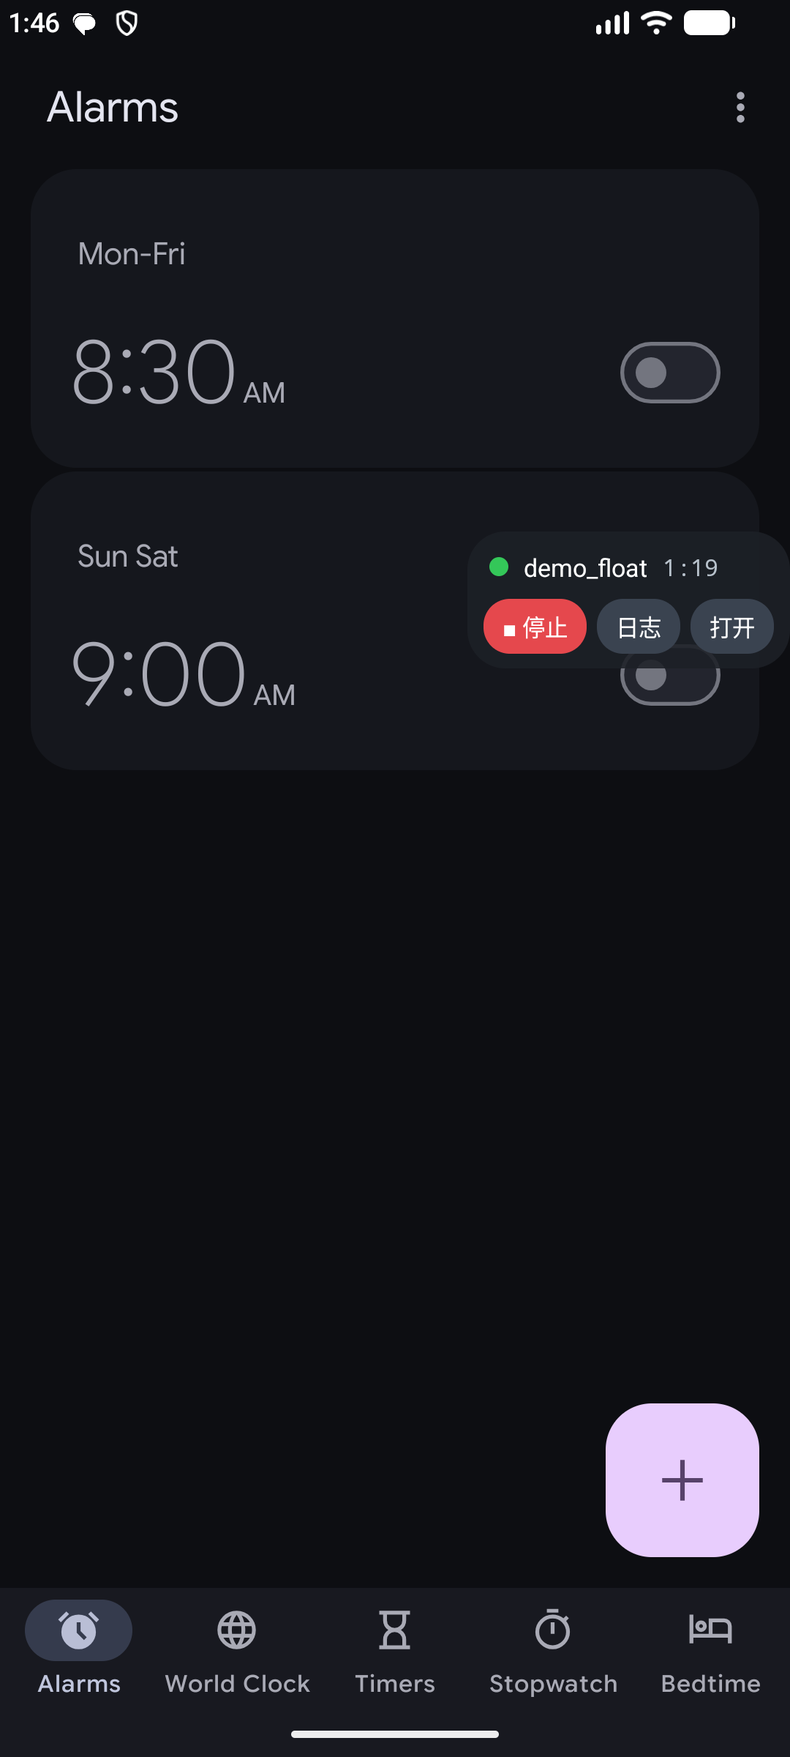
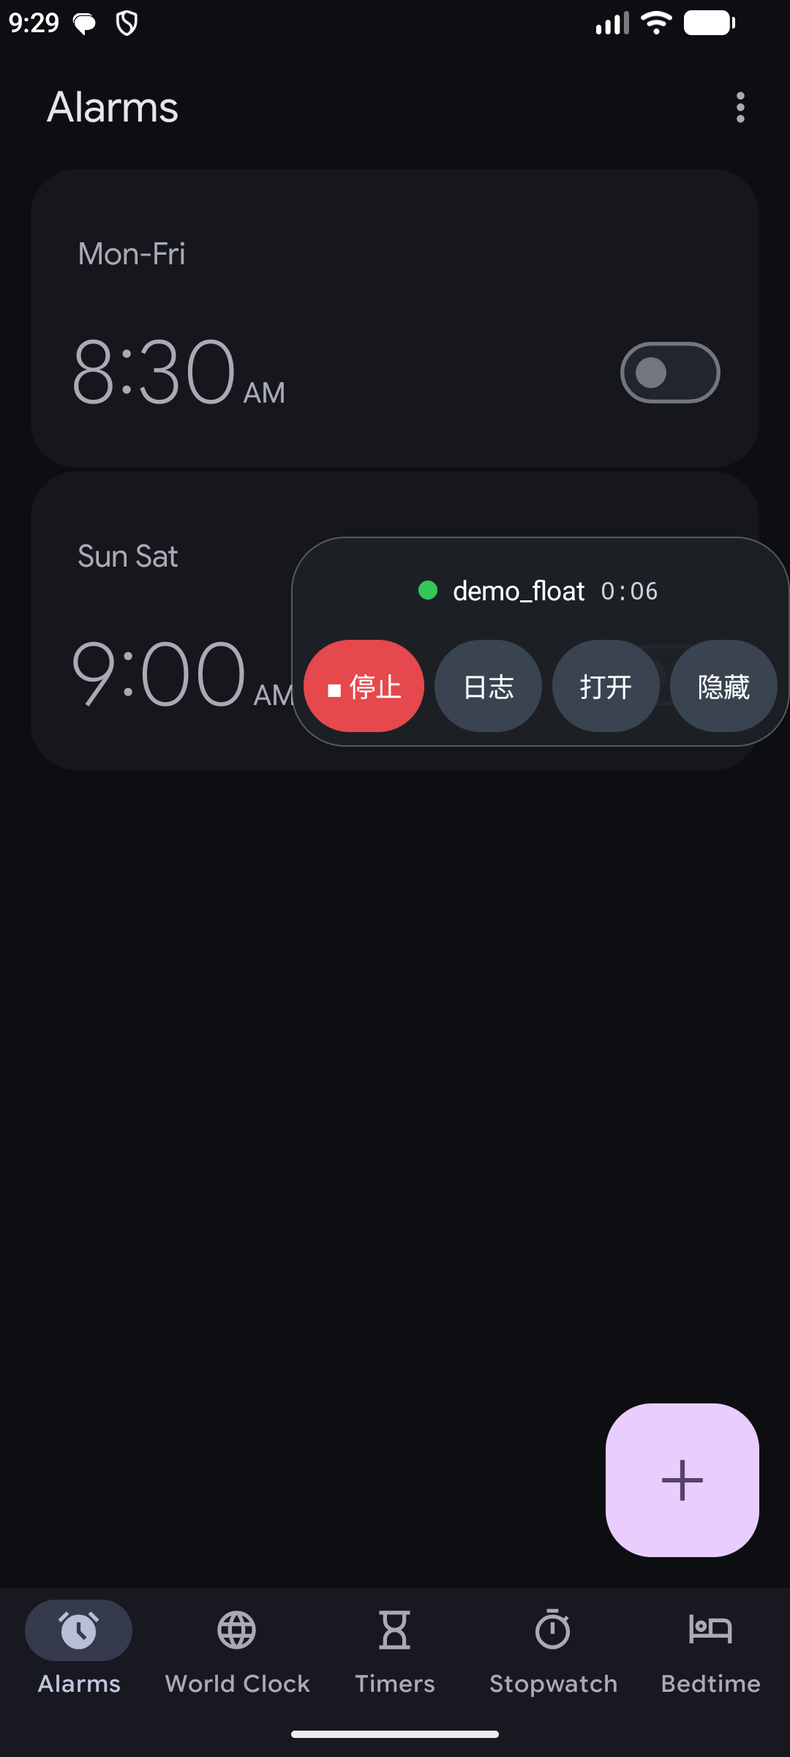
docs: floating window optimization (功能对照, 使用手册, ARCHITECTURE, API, README + refreshed phone-floating.png, openapi/mock overlay fields, CHANGELOG)

Changed region(s): [[0.3667, 0.3125, 1.0, 0.4375], [0.0, 0.0, 0.0917, 0.0312], [0.5194, 0.3125, 0.55, 0.3438]]

diff --git a/scripts/mock_device.py b/scripts/mock_device.py
@@ -232,10 +232,14 @@ class Handler(BaseHTTPRequestHandler):
                     "mode": "off" if not STATE["settings"]["float_on_run"] else ("always" if STATE["settings"]["float_always"] else "run"),
                     "permitted": True,
                     "visible": False,
+                    "state": None,
                     "expanded": False,
                     "app_foreground": True,
                     "side": "right",
                     "reason": "foreground",
+                    "error": False,
+                    "menus": 0,
+                    "insets": {"left": 0, "top": 0, "right": 0, "bottom": 0},
                 },
             })
             return

diff --git a/docs/ARCHITECTURE.md b/docs/ARCHITECTURE.md
@@ -284,14 +284,16 @@ MCP 也提供了对应工具（`take_snapshot`、`vision_test`、`crop_template`
 
 悬浮窗是一个 `TYPE_APPLICATION_OVERLAY`（API 26 以下 `TYPE_PHONE`）窗口，标题 `XScriptFloat`，在主进程里由 `WindowManager` 直接添加，不另起 Service：主进程已经被 `DeviceHttpService` 的前台服务通知保活，悬浮窗不需要自己的通知。`FloatLogic` 是不依赖 Android 类型的纯 Kotlin（JVM 测试覆盖），`FloatControl` 负责窗口和事件。
 
-- **何时可见**：`FloatLogic.decide(permitted, enabled, always, running, appForeground, scriptForce)`。无权限 → 不显示（静默）；脚本 `ui.float_show()` → 显示，`ui.float_hide()` → 隐藏（只对本次运行有效，脚本结束清除）；设置关闭 → 不显示；有 Activity 在前台 → 不显示；否则脚本在运行或设置为“后台一直显示”时显示。
+- **何时可见**：`FloatLogic.decide(permitted, enabled, always, running, appForeground, scriptForce, userHidden, notice)`。无权限 → 不显示（静默）；脚本 `ui.float_show()` → 显示，`ui.float_hide()` → 隐藏（只对本次运行有效，脚本结束清除）；面板里点了 **隐藏** → 不显示（下次运行或有 Activity 回到前台时清除）；设置关闭 → 不显示；有 Activity 在前台 → 不显示；否则脚本在运行、设置为“后台一直显示”或刚报错（`notice`，约 8 秒）时显示。退出码非 0 / 进程死亡才算出错（`FloatLogic.isError`；退出码 0 和用户停止不算），`scriptEnded(ctx, exit)` 从 `script_finished` 和 `ScriptSupervisor.onDeath` 两处带上退出信息。
 - **前后台**：`XscriptApp` 里注册 `ActivityLifecycleCallbacks`，数已 `started` 的 Activity（主进程内）。脚本进程里的 `ui.Window` 等是 View 不是 Activity，不算前台。
-- **触发**：`script_started` / `script_finished`（`MainControl`）、`ScriptSupervisor.onDeath`、设置变化、前后台切换都会调 `sync`；窗口显示期间每秒一次 tick，刷新计时，并发现脚本进程已消失、屏幕旋转、权限被撤销。“空闲”需要连续两次确认才收起，避免状态文件读到一半时闪一下。
+- **触发**：`script_started` / `script_finished`（`MainControl`）、`ScriptSupervisor.onDeath`、设置变化、前后台切换都会调 `sync`；窗口显示期间每秒一次 tick（只读状态文件、只在文本变化时 `setText`；进程列表 IPC 最多每 4 秒一次；屏幕熄灭时降到每 5 秒），刷新计时，并发现脚本进程已消失、屏幕旋转、字体 / 深色模式变化（重建窗口，保留当前形态）、权限被撤销；窗口隐藏时没有任何轮询。“空闲”需要连续两次确认才收起，避免状态文件读到一半时闪一下。
 - **运行状态和计时**：`RunState`（文件，原子写入）里有工程名，`running-since` 记录开始时间，主进程重启后计时不归零。
-- **位置**：`FloatLogic.Dock(right, yFrac)`——靠左或靠右 + 竖直方向的比例，存在 `Settings`；拖动松手后吸附到近的一侧，换屏幕尺寸或旋转后按比例重新放置，窗口始终完整在屏幕内。展开面板、计时位数变化导致宽度变化时，右侧停靠的窗口自动贴着右边。
-- **展开面板**：点一下切换 `FloatLogic.State.expanded`；运行 / 停止走 `ScriptService.run/stop`（用户停止，不会重跑），日志、打开用 `FLAG_ACTIVITY_NEW_TASK` 拉起 Activity（有可见悬浮窗的应用允许从后台启动）。
+- **位置**：`FloatLogic.Dock(right, yFrac)`——靠左或靠右 + 竖直方向的比例，横屏和竖屏各存一份在 `Settings`（`floatDock(landscape)`）；`FloatLogic.Insets`（状态栏、刘海、导航 / 手势条，API 30+ 用 `maximumWindowMetrics.windowInsets`，更低版本用资源尺寸）贯穿 clamp / place / dockFor / resolve，窗口始终在安全区内。拖动松手后吸附到近的一侧（`DecelerateInterpolator` 200 ms），换屏幕尺寸或旋转后按比例重新放置。窗口大小由 `FloatControl.fit` 自己量好后设为精确值（`WRAP_CONTENT` 的覆盖窗口内容变宽时不会可靠地跟着变宽，面板按钮会被裁掉），右侧停靠的窗口因此始终贴着右边。
+- **球 / 药丸 / 面板**：`FloatLogic.Mode`（BALL、PILL、PANEL）+ `Event.TAP / ACTION / IDLE / WAKE`；新窗口先是药丸（看得清名字），`PILL_IDLE_MS`（5 秒）/ `PANEL_IDLE_MS`（10 秒）没触碰就缩成 48dp 球；`FloatLogic.alpha(mode, dim, touching)` 把脚本的 `dim` 当基础透明度，球再乘 0.6，触碰时回到 `dim`。药丸 ≥ 48dp 高，面板按钮 ≥ 48dp × 56dp，颜色随深色模式换并带描边；读屏文字在 `render` 里生成（状态 + 名称 + 时长），点击走 `performClick`，TalkBack 双击可用。
+- **脚本自己的按钮**：Python `xscript.android.ui.float_add_menu` → 控制命令 `float_menu_add`（`FloatControl.addMenu`，主进程保存 id + 图标路径，随脚本结束清除）→ 点击时 `EventHub.floatMenu(id)` 发 `float` 事件（`xscript.android.event` 的 `FLOAT` 类型，带 `menu` 字段）→ 脚本进程的事件线程分发，回调另开线程执行，所以长回调不会堵事件。
+- **展开面板**：点一下切换面板；运行 / 停止走 `ScriptService.run/stop`（用户停止，不会重跑），日志、打开用 `FLAG_ACTIVITY_NEW_TASK` 拉起 Activity（有可见悬浮窗的应用允许从后台启动）。
 - **重启恢复**：主进程被系统杀掉后 `DeviceHttpService`（`START_STICKY`）重新拉起，`XscriptApp.onCreate` 里 `FloatControl.restore` 延迟 1.5 秒调用 `sync`（避免从桌面冷启动时闪一下），脚本还在运行就恢复悬浮窗。
-- **`/status`**：`overlay` 字段（`enabled / always / mode / permitted / visible / expanded / app_foreground / side / reason`，可见时附 `x / y / width / height`），测试用。
+- **`/status`**：`overlay` 字段（`enabled / always / mode / permitted / visible / state / expanded / app_foreground / side / reason / error / menus / insets`，可见时附 `x / y / width / height / alpha / screen_width / screen_height`），测试用。
 - **AScript 兼容**：`FloatWindow.show(x, y, dim)` 的 x / y / dim 由 `FloatLogic.resolve` 解释（-1 = 右 / 下，0 = 左 / 上，小数 = 比例，正数 = 像素），但始终贴边。
 
 ### 4.10 APK 打包与卡密

diff --git a/docs/使用手册.md b/docs/使用手册.md
@@ -63,21 +63,25 @@ adb -s 127.0.0.1:16384 shell cmd appops set com.xscript.app SYSTEM_ALERT_WINDOW 
 
 ### 悬浮窗（后台运行控制）
 
-脚本在运行、你把 XScript 切到后台（回桌面或打开别的 App）时，屏幕边上会出现一个小悬浮窗：绿点表示运行中，后面是工程名和已运行时间（`1:19`）。
+脚本在运行、你把 XScript 切到后台（回桌面或打开别的 App）时，屏幕边上会出现一个悬浮窗：圆点表示状态（绿 = 运行中、灰 = 空闲、红 = 出错），后面是工程名和已运行时间（`1:19`）。
 
-- **拖动**：按住移动，松手后吸附到左边或右边，位置会记住（重启 App 也在）。
-- **展开**：点一下悬浮窗，展开 **运行 / 停止**、**日志**、**打开**；再点一下收起。**停止** 和 App 里的停止一样（杀脚本进程，不会触发“停止后重新运行”）；空闲时按钮是 **运行**，运行上次的小程序。
+- **小球**：约 5 秒没碰它，悬浮窗缩成一个 48dp 的半透明小球（里面还是已运行时间，红点 `!` 表示刚出错），不挡内容；碰一下恢复不透明。脚本里 `dim` 设的透明度会一直生效，小球在它的基础上再淡一些。
+- **拖动**：按住移动，松手后带缓动吸附到左边或右边，位置会记住（重启 App 也在）；横屏和竖屏各记一个位置，旋转后自动重新摆放。悬浮窗不会盖住状态栏、刘海 / 摄像头挖孔和底部导航条 / 手势条。
+- **展开**：点一下（小球或药丸都行）展开 **运行 / 停止**、**日志**、**打开**、**隐藏**，每个按钮不小于 48dp；再点一下收起，10 秒没操作缩回小球。**停止** 和 App 里的停止一样（杀脚本进程，不会触发“停止后重新运行”）；空闲时按钮是 **运行**，运行上次的小程序。**隐藏** 让悬浮窗消失，直到下次运行脚本或回到 App 再出现。
+- **脚本自己的按钮**：`FloatWindow.add_menu("rec", R.img("rec.png"), on_click)` 往展开面板里加一个圆形图标按钮，点它会在脚本里调用 `on_click()`；`remove_system=True` 隐藏内置的 运行 / 日志 / 打开 / 隐藏；脚本结束按钮一起消失。
+- **出错提示**：脚本非正常结束（报错、进程被杀）时悬浮窗不立刻收起，变成红点 + “工程名 出错”，保留约 8 秒；正常结束或点了停止不会这样。
+- **读屏**：整个悬浮窗有朗读文字（“XScript 悬浮窗，运行中，工程名，已运行 0:12，点按展开”），各按钮有各自的说明；字体变大或切换深色模式后自动重建。
 - **什么时候出现**：首页 **悬浮窗显示** 选 **运行时显示**（默认）时，脚本运行且 App 在后台才出现；打开 App 就收起，脚本结束也收起。选 **后台一直显示** 时，没有脚本运行也会在后台显示一个“空闲”的悬浮窗，方便随手点 **运行**。选 **已关闭** 则不显示。脚本里调用 `ui.float_show()` 会在本次运行里强制显示（设置里关闭、App 在前台也显示），`ui.float_hide()` 强制隐藏。
 - **权限**：需要 **悬浮窗权限**（首页同名一行，“未授权，点此开启”会跳到系统页面）。第一次把 **悬浮窗显示** 设为非“已关闭”而没授权时会弹窗引导。没授权时悬浮窗不显示，脚本照常运行，不报错。
 - **和通知的关系**：悬浮窗放在主进程，由已有的前台服务通知保活，不额外加通知；主进程被系统杀掉重启后，脚本还在运行时会自动恢复悬浮窗。部分系统的设置、支付等页面会为了防止点击劫持隐藏所有悬浮窗，这时看不到是系统行为。
 - **打包 App**：同样有这个悬浮窗和 **悬浮窗显示** 一行。
-- 检查：`GET /status` 的 `overlay` 字段给出 `enabled / always / permitted / visible / expanded / app_foreground / side / reason` 以及可见时的位置和大小。
+- 检查：`GET /status` 的 `overlay` 字段给出 `enabled / always / mode / permitted / visible / state（ball / pill / panel）/ expanded / app_foreground / side / reason / error / menus / insets` 以及可见时的位置、大小、`alpha` 和整屏尺寸。
 
 真机 / 模拟器验证（用 `appops` 授权，真实按 HOME、点击、拖动，用 `dumpsys window` 和 uiautomator 检查悬浮窗窗口）：
 
 ```sh
 adb forward tcp:19860 tcp:9860
-python3 scripts/device_float_e2e.py emulator-5554 http://127.0.0.1:19860   # 50 项：前台不显示 / HOME 后显示 / 计时 / 展开 / 拖动贴边记位置 / 日志 / 停止 / 一直显示 / 关闭 / 撤销授权 / FloatWindow.show·hide
+python3 scripts/device_float_e2e.py emulator-5554 http://127.0.0.1:19860   # 134 项：前台不显示 / HOME 后显示 / 计时 / 小球 / 展开与 48dp 触点 / 拖动贴边避开状态栏导航条 / 记位置 / 日志 / 隐藏 / 停止 / 一直显示 / 关闭 / 撤销授权 / CPU / 字体与深色 / 出错提示 / add_menu / 横竖屏 / FloatWindow.show·hide
 ```
 
 ### 小程序列表

diff --git a/CHANGELOG.md b/CHANGELOG.md
@@ -7,6 +7,18 @@
 ### 新增
 
 - **后台悬浮窗（参照 AScript 的 App 小悬浮窗）**：脚本运行、应用切到后台时，屏幕边上出现一个悬浮窗——绿点 + 工程名 + 已运行时间；可拖动，松手吸附到左 / 右边并记住位置（重启也在）；点一下展开 **运行 / 停止、日志、打开**（停止是用户停止，不会触发“停止后重新运行”）。回到应用或脚本结束就收起。首页和打包 App 新增 **悬浮窗显示**：运行时显示（默认）/ 后台一直显示（没有脚本也显示“空闲”悬浮窗，可直接点运行）/ 已关闭；**悬浮窗权限** 一行显示“未授权，点此开启”，设为非关闭而没授权时弹窗引导去系统页面，没授权时静默不显示、脚本照常运行。窗口放在主进程，由已有的前台服务通知保活，不额外加通知，主进程被系统杀掉重启后自动恢复。`GET /status` 新增 `overlay`（`enabled / always / permitted / visible / expanded / app_foreground / side / reason` 和位置大小），`/settings` 新增 `float_always`。`ui.float_show(x, y, dim)` / `FloatWindow.show(x, y, dim)` 现在按 AScript 的 x / y / dim 定位（-1 / 0 贴边、小数为屏幕比例、正数像素；始终贴边）。AScript 实际行为和我们的差异见 [功能对照](docs/功能对照.md) 末尾的“悬浮窗”一节（没有来源的细节没有照搬）。验证：JVM 单测 19 项（可见性判断、面板状态机、位置夹取 / 吸附 / 还原 / AScript 坐标）、`scripts/device_float_e2e.py` 在 16KB（API 37）和 4KB（API 34）两台模拟器上各 50 项（授权用 `appops`、真实按 HOME / 点击 / 拖动，用 `dumpsys window` 和 uiautomator 检查窗口类型、位置、计时、停止后脚本真的退出、前台不显示），另在 16KB 模拟器上装了新打包的 App 验证，并在 4KB 模拟器上杀掉主进程验证脚本还在时悬浮窗自动恢复。
+- **悬浮窗优化**：对着两台模拟器实际用了一遍（待机 / 运行 / 展开 / 拖动，深浅背景，字体 1.0 / 1.5，竖屏 / 横屏）后修了真正有问题的地方：
+  - 触点太小：药丸高 37dp、面板按钮约 29dp，现在药丸和每个按钮都 ≥ 48dp；新增 **隐藏** 按钮（隐藏到下次运行或回到 App）。
+  - 盖住状态栏、刘海和底部手势条（拖到顶 / 底会压在系统栏上）：现在按系统栏 / 刘海 / 导航条的 insets 摆放，拖到边缘停在安全区内；横竖屏各记一个位置，旋转后重新摆放。
+  - 一直挡着内容、深色背景下看不清：约 5 秒没碰就缩成 48dp 半透明小球（显示时间，红 `!` 表示出错），碰一下恢复；深色模式换底色并加描边；`dim`（FloatWindow.show 的透明度）真正生效，小球在其基础上再淡。吸附带缓动。
+  - 状态不清楚：绿 / 灰 / 红三种状态点；脚本报错或进程死亡后悬浮窗保留约 8 秒并写“出错”（正常结束、用户停止不会）。
+  - 字体大小或深色模式切换后悬浮窗不更新：现在自动重建；读屏有“状态 + 名称 + 已运行时间”的朗读文字，点击可被 TalkBack 触发。
+  - 面板里按钮被裁掉（窗口宽度没跟着变宽）：窗口大小改为自己量好后精确设置。
+  - 每秒一次的计时器每次都查进程列表：改为最多每 4 秒一次、只在文字变化时更新、屏幕熄灭时降频，隐藏时没有轮询；20 秒内主进程 CPU 约 1%（一个核）。
+  - **`FloatWindow.add_menu` 现在可用**（`ui.float_add_menu`）：往面板里加圆形图标按钮，点击在脚本里另开线程调回调，`remove_system=True` 隐藏内置按钮，脚本结束清除。
+  - `/status.overlay` 新增 `state / error / menus / insets / alpha / screen_width / screen_height`，`reason` 新增 `user_hidden`。
+  - 没做：半隐藏到屏幕边外的小球（触点会小于 48dp）、长按菜单（点一下已能展开）、避让输入法（悬浮窗不抢焦点，不受影响）、多显示器。
+  - 验证：JVM 单测 `FloatLogicTest` 扩到 32 项；Python 运行时测试 5 项（add_menu）；`scripts/device_float_e2e.py` 扩到 134 项，16KB（API 37）和 4KB（API 34）两台模拟器各全部通过（含小球尺寸 / 透明度、触点尺寸、拖到状态栏 / 导航条、隐藏、出错提示、add_menu 点击回调、字体 1.5 与深色重建、横竖屏分别记位置、CPU）。
 - 修复：`RunState` 的状态文件改为原子写入，另一个进程不会读到写了一半的空文件。
 
 ## v0.2.5（2026-10-15）

diff --git a/docs/功能对照.md b/docs/功能对照.md
@@ -76,8 +76,8 @@ AScript 兼容层在 `android/python-runtime/ascript/`，XScript 自有 API 在 
 | 功能 | AScript 文档 | 状态 | 备注 | 需要？ |
 | --- | --- | --- | --- | --- |
 | HTML 窗口（WebWindow） | `ui/window` | ✅ 已有 | | |
-| 悬浮窗 | `ui/floatwin` | ✅ 已有 | `FloatWindow.show(x, y, dim)` / `hide()` 可用：x、y 的正数 = 像素、小数 = 屏幕比例、0 / -1 = 贴边（右下角）、`dim` 透明度；XScript 的悬浮窗始终贴左右边，所以 x 只决定靠哪一侧，不会钉在屏幕中间。`add_menu` 不支持（调用只给一次警告）。后台悬浮窗见下一行 | |
-| App 悬浮窗（后台运行控制） | App 自带小悬浮窗（见下方说明） | ✅ 已有 | 应用切到后台且脚本在运行时出现：状态点 + 工程名 + 已运行时间，可拖动、贴边、记住位置；点一下展开 运行 / 停止 / 日志 / 打开；回到应用或脚本结束就收起。设置“悬浮窗显示”：运行时显示（默认）/ 后台一直显示 / 已关闭。没有悬浮窗权限时不显示、不报错。模拟器真机验证见 `scripts/device_float_e2e.py` | |
+| 悬浮窗 | `ui/floatwin` | ✅ 已有 | `FloatWindow.show(x, y, dim)` / `hide()` 可用：x、y 的正数 = 像素、小数 = 屏幕比例、0 / -1 = 贴边（右下角）、`dim` 透明度；XScript 的悬浮窗始终贴左右边，所以 x 只决定靠哪一侧，不会钉在屏幕中间。`add_menu(menu_id, menu_ico, listener, remove_system)` 可用：往展开面板里加圆形图标按钮（`menu_ico` 用图片文件路径，如 `R.img(...)`，读不到图就显示 id 前两个字），点按钮在脚本里另开线程调 `listener`（不带参数，或带一个参数时传 `menu_id`），`remove_system=True` 隐藏内置的 运行 / 日志 / 打开 / 隐藏，同 id 再加就替换，脚本结束按钮一起清掉；回调的参数形式官方文档没写，所以两种都接受。后台悬浮窗见下一行 | |
+| App 悬浮窗（后台运行控制） | App 自带小悬浮窗（见下方说明） | ✅ 已有 | 应用切到后台且脚本在运行时出现：状态点（绿 = 运行中、灰 = 空闲、红 = 出错）+ 工程名 + 已运行时间，5 秒没操作缩成 48dp 的半透明小球（仍显示时间）；可拖动（松手带缓动贴边）、避开状态栏 / 刘海 / 导航条、横竖屏各记一个位置、旋转后重新摆放；点一下展开 运行 / 停止 / 日志 / 打开 / 隐藏（每个按钮 ≥ 48dp），再点收起，10 秒没操作缩回小球；脚本报错结束后保留 8 秒并标红“出错”；回到应用或脚本结束就收起。字体大小和深色模式变化后自动重建，读屏有状态 / 名称 / 时长的朗读文字。设置“悬浮窗显示”：运行时显示（默认）/ 后台一直显示 / 已关闭。没有悬浮窗权限时不显示、不报错。模拟器真机验证见 `scripts/device_float_e2e.py` | |
 | 对话框 | `ui/dialog` | ✅ 已有 | | |
 | 日志窗口 | `ui/loger` | ✅ 已有 | | |
 | 图片展示 | `ui/imgshow` | ✅ 已有 | | |

diff --git a/README.md b/README.md
@@ -38,9 +38,9 @@ XScript 将设备端 Python 运行时、自动化 API、浏览器开发工具和
 | <img src="docs/images/phone-editor.png" width="220" alt="手机上查看和修改 __init__.py"> | <img src="docs/images/phone-run-log.png" width="220" alt="运行日志：print 输出实时显示，可停止、清空"> | <img src="docs/images/phone-schedule.png" width="220" alt="添加定时任务：每天定时、每隔 N 分钟、只运行一次"> |
 | 详情页点文件即可查看和简单修改 | `print` 输出实时显示，可 **停止** / **清空** | 每天定时、每隔 N 分钟、只运行一次 |
 
-**4. 后台悬浮窗**：脚本运行时把 XScript 切到后台，屏幕边上会出现一个悬浮窗（绿点 + 工程名 + 已运行时间），拖动会吸附到左右边并记住位置；点一下展开 **停止 / 日志 / 打开**，不用回到 App 就能停脚本。首页 **悬浮窗显示** 可选 运行时显示（默认）/ 后台一直显示 / 已关闭，需要 **悬浮窗权限**，没授权时不显示也不影响运行。回到 App 或脚本结束就收起。
+**4. 后台悬浮窗**：脚本运行时把 XScript 切到后台，屏幕边上会出现一个悬浮窗（绿点 + 工程名 + 已运行时间），几秒不碰就缩成半透明小球；拖动会带缓动吸附到左右边（避开状态栏和导航条）并记住位置，横竖屏各一份；点一下展开 **停止 / 日志 / 打开 / 隐藏** 和脚本用 `FloatWindow.add_menu` 加的按钮，不用回到 App 就能停脚本；脚本出错结束时会标红保留几秒。首页 **悬浮窗显示** 可选 运行时显示（默认）/ 后台一直显示 / 已关闭，需要 **悬浮窗权限**，没授权时不显示也不影响运行。回到 App 或脚本结束就收起。
 
-<img src="docs/images/phone-floating.png" width="240" alt="在别的 App 上方显示的悬浮窗：展开后有停止、日志、打开三个按钮">
+<img src="docs/images/phone-floating.png" width="240" alt="在别的 App 上方显示的悬浮窗：展开后有停止、日志、打开、隐藏四个按钮">
 
 **5. 在电脑上写脚本**：首页 **开发者地址** 就是电脑要访问的地址。同一局域网直接打开 `http://<开发者地址>/tools/`；USB 或模拟器先 `adb forward tcp:19860 tcp:9860`，再打开 `http://127.0.0.1:19860/tools/`，进入 **脚本 IDE**。
 

diff --git a/docs/API.md b/docs/API.md
@@ -284,6 +284,7 @@ c.rect(100, 100, 400, 300, label="hit"); c.cross(540, 960); c.clear()
 ui.show_image("/sdcard/a.png")
 ui.float_show(); ui.float_hide()     # 悬浮窗：本次运行里强制显示 / 隐藏（设置“关闭”或应用在前台时也显示）
 ui.float_show(x=-1, y=-1, dim=0.8)   # 位置与透明度同 AScript FloatWindow.show：-1 右 / 下边缘，0 左 / 上边缘，0–1 屏幕比例，正数像素；始终贴边
+ui.float_add_menu("rec", "/sdcard/rec.png", on_click, remove_system=False)  # 悬浮窗面板里加一个圆形按钮（同 AScript FloatWindow.add_menu），点击在脚本里另开线程调 on_click()（带一个参数时传 menu_id）；同 id 再加就替换，脚本结束清除
 ```
 
 `ui.Window` 的 HTML 可以调用 `window.xscript.call(key, value)`。AScript 页面使用别名 `window.airscript.call`，同样可用。
